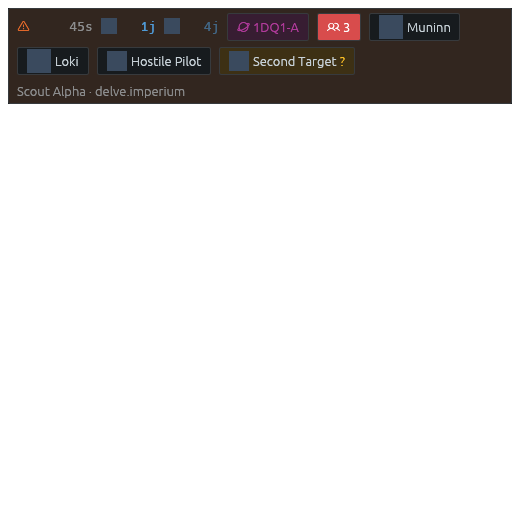
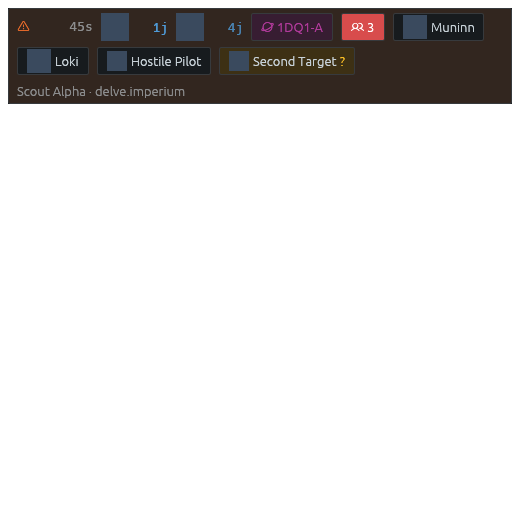
Give the character badge the row's height and mark bridges by colour alone
The portraits sat at text height beside 28px chips. They now take
interact_size, which the row's chips already force, so the taller portrait
costs no height.

A jump bridge that merely shortens the trip no longer draws the arrow glyph;
purple carries it. A route gates cannot reach at all keeps its words, because
colour cannot express that distinction. The bridge tooltip moved onto the
number, which is now the only thing a shortcut marks.

The selected character's number went from 0.55 to 0.8 gamma, which was reading
as greyed out rather than secondary.

Changed region(s): [[0.2769, 0.0, 0.9538, 0.0923], [0.1846, 0.0, 0.2462, 0.0923]]

diff --git a/app/src/uitest/scenes.rs b/app/src/uitest/scenes.rs
@@ -1443,6 +1443,44 @@ fn uitest_intel_card_attributes_the_nearest_character() {
     );
 }
 
+/// The portrait reads as a player, so it wants the height the row already has, not the height of
+/// the text beside it.
+#[test]
+fn uitest_intel_card_badge_is_as_tall_as_the_chips_beside_it() {
+    use egui_kittest::kittest::NodeT as _;
+
+    let mut scene = all().into_iter().find(|s| s.name == "intel_row_two_characters").expect("scene");
+    let harness = harness::build(&mut scene, false);
+    let mut badge: Option<f32> = None;
+    let mut chip: Option<f32> = None;
+    for node in harness.root().children_recursive() {
+        let n = node.accesskit_node();
+        if n.role() != egui::accesskit::Role::Button || n.is_hidden() {
+            continue;
+        }
+        let label = n.label().unwrap_or_default().to_owned();
+        let Some(b) = n.bounding_box() else { continue };
+        let h = (b.y1 - b.y0) as f32;
+        if label == "Scout Alt" {
+            badge = Some(h);
+        } else if label.contains("1DQ1-A") {
+            chip = Some(h);
+        }
+    }
+    let badge = badge.expect("no portrait button");
+    let chip = chip.expect("no system chip");
+    assert!(
+        (badge - chip).abs() < 0.5,
+        "the portrait stands {badge:.1}px against a {chip:.1}px chip on the same row"
+    );
+    let line = theme_body_line();
+    assert!(
+        badge > line + 4.0,
+        "the portrait is {badge:.1}px against {line:.1}px of body text, so it shrank back to \
+         text size"
+    );
+}
+
 /// A compact card is ~320px and UI-002 fought over 33 of them, so the second slot is dropped there
 /// and the selected character's distance moves into the roster the badge opens.
 #[test]
@@ -1499,17 +1537,27 @@ fn uitest_intel_card_jump_column_holds_its_x() {
 }
 
 /// A per-character verdict is the thing one shared `JumpVia` could not express: the nearest
-/// character rides a bridge here and the other one does not.
+/// character rides a bridge here and the other one does not. The mark is a colour now, which the
+/// AccessKit tree cannot see, so the two halves are asserted where each is observable.
 #[test]
 fn uitest_intel_card_marks_a_bridge_per_character() {
+    use crate::app::jump_chip_style;
+
+    let chars = fixtures::card_chars_bridged();
+    assert_ne!(
+        jump_chip_style(chars.hops[0].via).0,
+        jump_chip_style(chars.hops[1].via).0,
+        "both characters' numbers would be drawn in the same colour"
+    );
+    assert_eq!(jump_chip_style(chars.hops[0].via).0, crate::theme::standing::ALLIANCE);
+
     let mut scene =
         all().into_iter().find(|s| s.name == "intel_row_two_characters_bridged").expect("scene");
     let harness = harness::build(&mut scene, false);
     assert_eq!(jump_chips(&harness), ["1j", "3j"]);
-    assert_eq!(
-        bridge_marks(&harness).len(),
-        1,
-        "only the character whose trip the bridge shortened is marked"
+    assert!(
+        bridge_marks(&harness).is_empty(),
+        "a shortcut is purple and wordless, so neither slot writes anything beside its number"
     );
 }
 
@@ -1587,7 +1635,10 @@ fn bridge_marks(harness: &egui_kittest::Harness<'_>) -> Vec<String> {
             continue;
         }
         let label = n.label().or_else(|| n.value()).unwrap_or_default();
-        if label.contains(egui_phosphor::regular::ARROWS_LEFT_RIGHT) {
+        // A bridge that merely shortens the trip is purple and nothing else, so the only mark
+        // still written in words is the route gates cannot reach at all.
+        if label.trim() == "bridge only" || label.contains(egui_phosphor::regular::ARROWS_LEFT_RIGHT)
+        {
             out.push(label.trim().to_owned());
         }
     }
@@ -1606,13 +1657,12 @@ fn uitest_intel_card_marks_a_bridge_dependent_range() {
         (jump_chips(&harness), bridge_marks(&harness))
     };
 
-    let arrows = egui_phosphor::regular::ARROWS_LEFT_RIGHT;
     let (chips, marks) = read(true);
     assert_eq!(chips, ["1j", "1j", "1j"], "counting bridges did not take both bridges");
     assert_eq!(
         marks,
-        [arrows.to_owned(), format!("{arrows} bridge only")],
-        "the two bridged cards are not marked, or the gate-only card is"
+        ["bridge only"],
+        "a shortcut is purple and wordless now, and only an unreachable-by-gate route says so"
     );
 
     let (chips, marks) = read(false);
@@ -1632,13 +1682,12 @@ fn uitest_alert_window_marks_a_bridge_dependent_range() {
         (jump_chips(&harness), bridge_marks(&harness))
     };
 
-    let arrows = egui_phosphor::regular::ARROWS_LEFT_RIGHT;
     let (chips, marks) = read(true);
     assert_eq!(chips, ["1j", "1j", "1j"], "the overlay lost the jump numbers");
     assert_eq!(
         marks,
-        [format!("{arrows} bridge only"), arrows.to_owned()],
-        "the overlay did not mark both bridge-dependent cards, or marked the gate-only one"
+        ["bridge only"],
+        "the overlay lost the one route gates cannot reach, or marked a card that has one"
     );
 
     let (chips, marks) = read(false);
@@ -1684,7 +1733,8 @@ fn uitest_bridge_mark_only_takes_width_on_the_card_that_earned_it() {
     let mut scene = intel_bridge_states_scene("bridge_align_probe", true, [1280.0, 800.0]);
     let harness = harness::build(&mut scene, false);
     let plain = jump_to_chip_gap(&harness, "319-3D");
-    let bridged = jump_to_chip_gap(&harness, "7-K5EL");
+    let shortcut = jump_to_chip_gap(&harness, "7-K5EL");
+    let bridge_only = jump_to_chip_gap(&harness, "Jita");
     let spacing = harness.ctx.global_style().spacing.item_spacing.x;
     assert!(
         plain <= spacing + 0.5,
@@ -1692,8 +1742,13 @@ fn uitest_bridge_mark_only_takes_width_on_the_card_that_earned_it() {
          against {spacing:.1}px of plain item spacing"
     );
     assert!(
-        bridged > plain + 4.0,
-        "the bridged card drew no glyph: {bridged:.1}px against {plain:.1}px"
+        (shortcut - plain).abs() < 0.5,
+        "a bridge shortcut is colour only, so it must cost the same width as no mark at all: \
+         {shortcut:.1}px against {plain:.1}px"
+    );
+    assert!(
+        bridge_only > plain + 4.0,
+        "the bridge-only card lost its words: {bridge_only:.1}px against {plain:.1}px"
     );
 }
 
@@ -1742,26 +1797,40 @@ fn uitest_bridge_mark_explains_itself_on_hover() {
 
     let mut scene = intel_bridge_states_scene("bridge_hover_probe", true, [1280.0, 800.0]);
     let harness = harness::build(&mut scene, false);
-    let mut spots: Vec<egui::Pos2> = Vec::new();
+    // The shortcut no longer draws a widget of its own, so the number is the only thing left to
+    // reach for. Find it by the row its system chip sits on.
+    let mut row_y: Option<f32> = None;
+    let mut spot: Option<egui::Pos2> = None;
+    for node in harness.root().children_recursive() {
+        let n = node.accesskit_node();
+        if n.is_hidden() {
+            continue;
+        }
+        let label = n.label().or_else(|| n.value()).unwrap_or_default();
+        if n.role() == egui::accesskit::Role::Button && label.contains("7-K5EL") {
+            row_y = n.bounding_box().map(|b| (b.y0 as f32 + b.y1 as f32) / 2.0);
+        }
+    }
+    let row_y = row_y.expect("no 7-K5EL chip on screen");
     for node in harness.root().children_recursive() {
         let n = node.accesskit_node();
         if n.role() != egui::accesskit::Role::Label || n.is_hidden() {
             continue;
         }
         let label = n.label().or_else(|| n.value()).unwrap_or_default();
-        if label.contains(egui_phosphor::regular::ARROWS_LEFT_RIGHT) && !label.contains("only") {
-            if let Some(b) = n.bounding_box() {
-                // The number sits one item-spacing to the left of the glyph.
-                spots.push(egui::pos2((b.x0 as f32 + b.x1 as f32) / 2.0, (b.y0 as f32 + b.y1 as f32) / 2.0));
-                spots.push(egui::pos2(b.x0 as f32 - 12.0, (b.y0 as f32 + b.y1 as f32) / 2.0));
+        if label.trim() != "1j" {
+            continue;
+        }
+        if let Some(b) = n.bounding_box() {
+            let cy = (b.y0 as f32 + b.y1 as f32) / 2.0;
+            if (cy - row_y).abs() < 6.0 {
+                spot = Some(egui::pos2((b.x0 as f32 + b.x1 as f32) / 2.0, cy));
             }
         }
     }
-    assert_eq!(spots.len(), 2, "expected one bridge glyph to hover");
+    let spot = spot.expect("no jump number on the bridged card's row");
     drop(harness);
-    for at in spots {
-        assert!(probe(at), "hovering at {at:?} showed no gate distance");
-    }
+    assert!(probe(spot), "hovering the bridged number at {spot:?} showed no gate distance");
 }
 
 /// The flag answers "does the number on screen rest on a bridge", not "do you own a bridge". With
@@ -1792,7 +1861,7 @@ fn uitest_bridge_flag_reads_the_number_that_is_shown() {
 /// The colour has to be legible as "informational" beside the row's own vocabulary, where green
 /// means cleared and amber and red mean threat.
 #[test]
-fn uitest_bridge_mark_uses_its_own_colour_and_a_real_glyph() {
+fn uitest_a_bridged_range_is_marked_by_colour_not_a_glyph() {
     use crate::app::{jump_chip_style, jump_chip_tip, JumpVia};
     use crate::theme::standing;
 
@@ -1802,20 +1871,28 @@ fn uitest_bridge_mark_uses_its_own_colour_and_a_real_glyph() {
 
     for via in [JumpVia::BridgeShorter(9), JumpVia::BridgeOnly] {
         let (col, mark) = jump_chip_style(via);
+        assert_eq!(col, standing::ALLIANCE, "{via:?} is not purple");
         for (name, other) in
             [("CORP", standing::CORP), ("HOSTILE", standing::HOSTILE), ("WARNING", standing::WARNING)]
         {
             assert_ne!(col, other, "{via:?} reuses {name}");
         }
-        let mark = mark.unwrap_or_else(|| panic!("{via:?} drew no glyph"));
-        assert!(mark.starts_with(egui_phosphor::regular::ARROWS_LEFT_RIGHT), "{mark:?}");
+        assert!(
+            !mark.as_deref().unwrap_or_default().contains(egui_phosphor::regular::ARROWS_LEFT_RIGHT),
+            "{via:?} still draws the arrow glyph: {mark:?}"
+        );
         let tip = jump_chip_tip(via, 2).unwrap_or_else(|| panic!("{via:?} has no tooltip"));
         assert!(tip.contains("hostile") && tip.contains("bridge"), "{tip:?}");
     }
-    assert_ne!(
+    assert_eq!(
         jump_chip_style(JumpVia::BridgeShorter(9)).1,
-        jump_chip_style(JumpVia::BridgeOnly).1,
-        "a bridge shortcut and a bridge-only route read identically"
+        None,
+        "a shortcut says nothing in words, the colour is the whole mark"
+    );
+    assert_eq!(
+        jump_chip_style(JumpVia::BridgeOnly).1.as_deref(),
+        Some("bridge only"),
+        "colour alone cannot say gates do not reach at all, so this case keeps its words"
     );
 }
 

diff --git a/app/src/app.rs b/app/src/app.rs
@@ -18612,16 +18612,13 @@ pub(crate) fn jump_via(
 /// Alliance purple because jump bridges are alliance infrastructure, and because the row already
 /// spends green on cleared reports and amber and red on threat.
 pub(crate) fn jump_chip_style(via: JumpVia) -> (egui::Color32, Option<String>) {
-    use egui_phosphor::regular as icon;
     match via {
         JumpVia::Gates => (crate::theme::standing::CORP, None),
-        JumpVia::BridgeShorter(_) => {
-            (crate::theme::standing::ALLIANCE, Some(icon::ARROWS_LEFT_RIGHT.to_owned()))
-        }
-        JumpVia::BridgeOnly => (
-            crate::theme::standing::ALLIANCE,
-            Some(format!("{} bridge only", icon::ARROWS_LEFT_RIGHT)),
-        ),
+        // Purple is the whole mark. A glyph beside every bridged number was noise in a home region
+        // where most of them are, and the tooltip still says which kind of bridge it is.
+        JumpVia::BridgeShorter(_) => (crate::theme::standing::ALLIANCE, None),
+        // Colour cannot say "there is no gate route at all", so this one keeps its words.
+        JumpVia::BridgeOnly => (crate::theme::standing::ALLIANCE, Some("bridge only".to_owned())),
     }
 }
 
@@ -22692,13 +22689,16 @@ fn char_jump_slot(
     compact: bool,
     tip: &mut Option<(egui::Pos2, PendingTip)>,
 ) -> bool {
-    let sz = if compact { 14.0 } else { 16.0 };
+    // As tall as the chips it sits beside, which already floor the row at `interact_size`, so a
+    // full-height portrait costs the row no height. `Button::new` over `Button::image` because
+    // only the former promises not to cap an image at the font height.
+    let sz = ui.spacing().interact_size.y;
     let btn = if hop.id == 0 {
         // Not in the store, usually a rename the deny list has not caught up with. A glyph beats
         // an image request that can only 404.
-        egui::Button::new(egui::RichText::new(egui_phosphor::regular::USER).size(sz))
+        egui::Button::new(egui::RichText::new(egui_phosphor::regular::USER).size(sz * 0.7))
     } else {
-        egui::Button::image(
+        egui::Button::new(
             egui::Image::new(eve_portrait_url(hop.id, sz))
                 .fit_to_exact_size(egui::Vec2::splat(sz))
                 .alt_text(&hop.name),
@@ -22708,7 +22708,9 @@ fn char_jump_slot(
         .ui(ui, |ui| char_jump_menu(ui, all));
 
     let (color, mark) = jump_chip_style(hop.via);
-    let color = if dim { color.gamma_multiply(0.55) } else { color };
+    // 0.55 read as greyed out rather than secondary. This ranks the two numbers and still leaves
+    // the dimmer one legible against the card.
+    let color = if dim { color.gamma_multiply(0.8) } else { color };
     let jtxt = match hop.jumps {
         Some(0) => "here".to_owned(),
         Some(j) => format!("{j}j"),
@@ -22727,16 +22729,16 @@ fn char_jump_slot(
         badge.on_hover_text(&roster);
     }
 
-    if let (Some(mark), Some(j)) = (mark, hop.jumps) {
-        if let Some(why) = jump_chip_tip(hop.via, j) {
-            let mr = ui.label(egui::RichText::new(mark).color(color));
-            if compact {
-                if mr.hovered() {
-                    *tip = Some((mr.rect.right_top(), PendingTip::Text(why)));
-                }
-            } else {
+    if let Some(why) = hop.jumps.and_then(|j| jump_chip_tip(hop.via, j)) {
+        let mr = mark.map(|m| ui.label(egui::RichText::new(m).color(color)));
+        if compact {
+            if jr.hovered() || mr.as_ref().is_some_and(egui::Response::hovered) {
+                *tip = Some((jr.rect.right_top(), PendingTip::Text(why)));
+            }
+        } else {
+            jr.on_hover_text(&why);
+            if let Some(mr) = mr {
                 mr.on_hover_text(&why);
-                jr.on_hover_text(&why);
             }
         }
     }
@@ -22946,19 +22948,28 @@ pub(crate) fn intel_row(
                     let jr = ui.label(
                         egui::RichText::new(format!("{jtxt:>4}")).monospace().color(jumps_color),
                     );
-                    if let (Some(mark), Some(why)) = (&bridge_mark, jump_chip_tip(via, j)) {
-                        let mr = ui.label(egui::RichText::new(mark).color(jumps_color));
+                    if let Some(why) = jump_chip_tip(via, j) {
+                        // A shortcut is now purple and nothing else, so the number carries the
+                        // explanation whether or not there is a label beside it.
+                        let mr = bridge_mark
+                            .as_ref()
+                            .map(|m| ui.label(egui::RichText::new(m).color(jumps_color)));
                         if compact {
                             if jr.hovered() {
                                 *tip =
                                     Some((jr.rect.right_top(), PendingTip::Text(why.clone())));
                             }
-                            if mr.hovered() {
-                                *tip = Some((mr.rect.right_top(), PendingTip::Text(why)));
+                            if let Some(mr) = &mr {
+                                if mr.hovered() {
+                                    *tip =
+                                        Some((mr.rect.right_top(), PendingTip::Text(why.clone())));
+                                }
                             }
                         } else {
                             jr.on_hover_text(&why);
-                            mr.on_hover_text(&why);
+                            if let Some(mr) = mr {
+                                mr.on_hover_text(&why);
+                            }
                         }
                     }
                 }

diff --git a/ui-tickets/UI-037-intel-jumps-only-from-the-selected-character/review.md b/ui-tickets/UI-037-intel-jumps-only-from-the-selected-character/review.md
@@ -105,6 +105,29 @@ headlessly.
 - **`min_jumps_from`'s hardcoded `50`** stays, rather than `JUMP_SCAN_CAP`. It is on the alert path
   and had no tests; it has tests now, so the constant can move in its own commit.
 
+## Follow-up round, after looking at it running
+
+Three changes on the user's read of the shipped card, all in the same ticket:
+
+- **The portraits were text-height.** They now take `ui.spacing().interact_size.y`, the height the
+  row's chips already force, so a full-height portrait costs the row nothing.
+  `uitest_intel_card_badge_is_as_tall_as_the_chips_beside_it` measures the badge against the
+  `1DQ1-A` chip on its own row and fails at the old 16px.
+- **A bridged range is purple and nothing else.** `jump_chip_style` no longer returns the
+  `ARROWS_LEFT_RIGHT` glyph for `BridgeShorter`: a glyph beside every bridged number is noise in a
+  home region where most of them are. `BridgeOnly` keeps the words "bridge only", because colour
+  cannot say "gates do not reach this at all" and that distinction is the whole of UI-026.
+  This moved the tooltip: it used to hang off the glyph, so with the glyph gone the number now
+  carries it whether or not a mark label exists beside it.
+  `uitest_bridge_mark_explains_itself_on_hover` was reworked onto the number and proves it.
+- **The selected character's number was too faint.** `gamma_multiply(0.55)` to `0.8`.
+
+One claim of mine did not survive its own teeth check. I wrote a comment saying `Button::image` was
+what held the portrait at text size, and that swapping to `Button::new` fixed it. Reverting only the
+constructor left the test passing: `Button::image`'s font-height cap does not override a
+`fit_to_exact_size` image, and the size came entirely from `sz`. The comment now says only what is
+true, and the teeth check is against `sz` instead.
+
 ## Residual risk
 
 The alert window is not virtualized and renders up to 100 cards, so two badges there is up to 200
